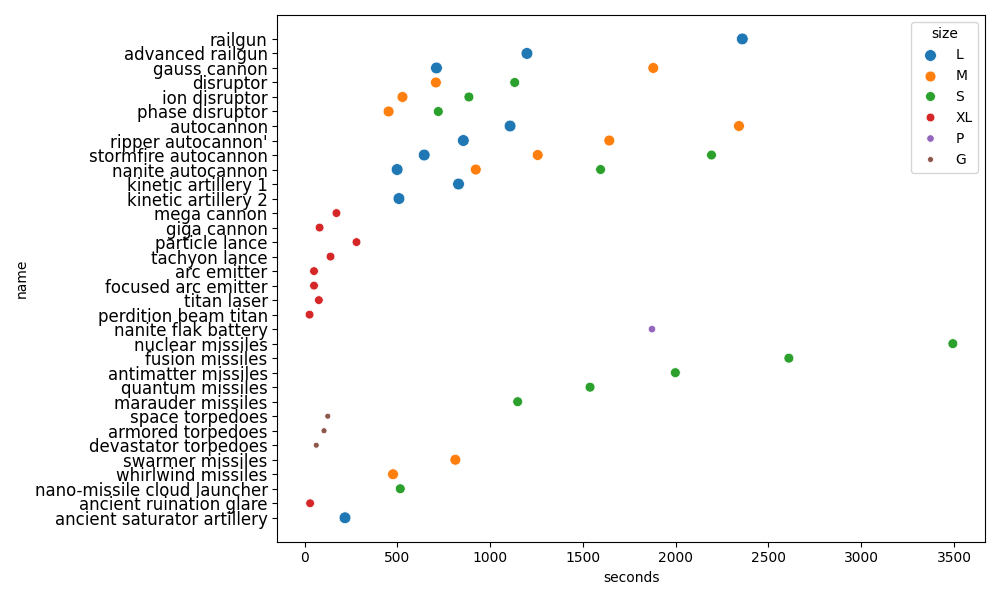
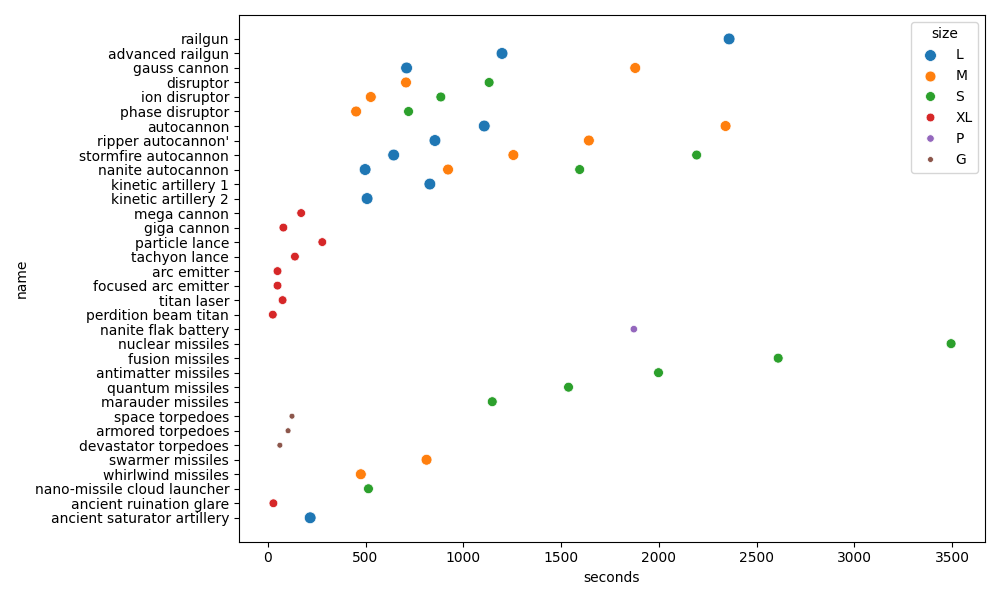
Fontsize weggehaald.

diff --git a/stellaris_weapon_simulator/data_ttk/plots_ttk.py b/stellaris_weapon_simulator/data_ttk/plots_ttk.py
@@ -18,5 +18,5 @@ plt.figure(figsize=(10, 6))
 plt.yticks(ha='right')
 sns.scatterplot(data=ws, y='name', x='seconds', size='size', hue='size')
 plt.tight_layout()
-#plt.savefig('figure_all_ttk')
-plt.show()
+plt.savefig('figure_all_ttk')
+#plt.show()
